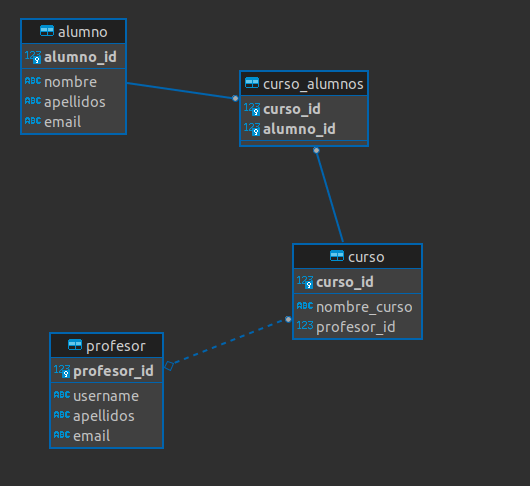
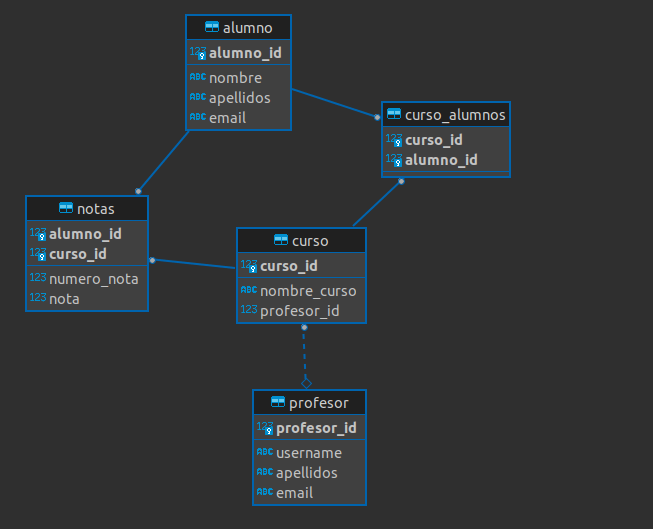
sql..

diff --git a/README.md b/README.md
@@ -1,40 +1,30 @@
-## Preguntas SQL:
+
+# Preguntas SQL:
 
 ## Modelo de datos
 
-[![modelo.png](https://i.postimg.cc/90VWjZQg/modelo.png)](https://postimg.cc/5Y7cBHv8)
+[![modelo.png](https://i.postimg.cc/W3hX2rr7/modelo.png)](https://postimg.cc/0M1pnzV6)
 
-## SQL
+<details> 
+  <summary> Respuestas Preguntas SQL </summary>
+   # 1) Escriba una Query que entregue la lista de alumnos para el curso "programación"
 
-1. Escriba una Query que entregue la lista de  alumnos para el curso
-"programación"
+   # 2) Escriba una Query que calcule el promedio de notas de un alumno en un curso.
 
+   # 3) Escriba una Query que entregue a los alumnos y el promedio que tiene en cada curso.
 
+   # 4) Escriba una Query que lista a todos los alumnos con más de un curso con promedio rojo.
 
+   # 5) Dejando de lado el problema del cólegio se tiene una tabla con información de jugadores de tenis: PLAYERS(Nombre, Pais, Ranking). Suponga que Ranking es un número de 1 a 100 que es distinto para cada jugador. Si la tabla en un momento dado tiene solo 20 registros, indique cuantos registros tiene la tabla que resulta de la siguiente consulta:
 
+    ```
+    SELECT c1.Nombre, c2.Nombre
+    FROM PLAYERS c1, PLAYERS c2
+    WHERE c1.Ranking > c2.Ranking
+    ```
+    b) 190
 
-2. Escriba una Query  que calcule el promedio de notas de un alumno en un
-curso.
-
-
-
-
-
-3. Escriba una Query que entregue a los alumnos y el promedio que tiene
-en cada curso.
-
-
-
-
-
-4. Escriba una Query que lista a todos los alumnos con más de un curso con
-promedio rojo.
-
-
-
-
-
-
+</details>
 
 
 
